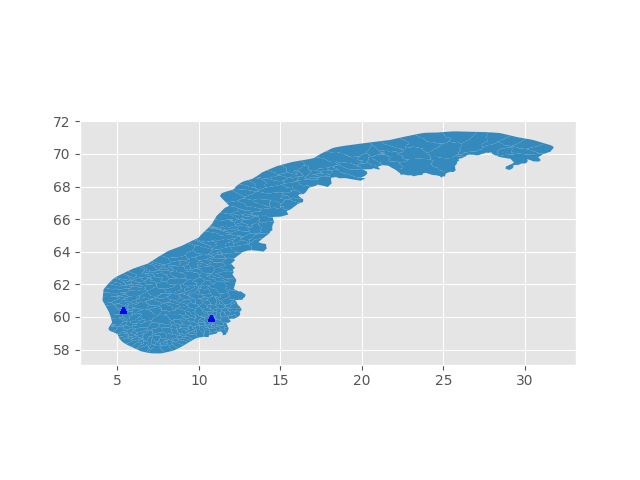
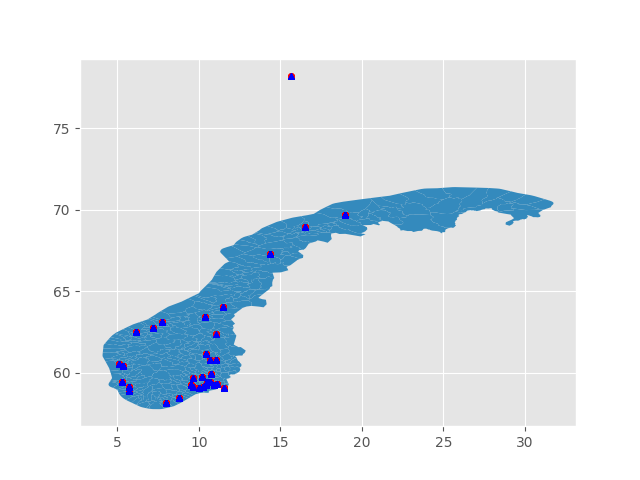
backup

diff --git a/oskar_norway_plot.py b/oskar_norway_plot.py
@@ -1,0 +1,112 @@
+import re
+import pandas as pd
+import numpy as np
+import geopandas as gpd
+import matplotlib.pyplot as plt
+from shapely.geometry import Polygon, LineString, Point
+
+gdf_nuts3 = gpd.read_file(
+    'data/NUTS_RG_01M_2021_3857_LEVL_3.shp.zip',
+    crs = "EPSG:4326"
+)
+
+
+
+# Filter out all countries except Norway
+gdf_NOnuts3 = gdf_nuts3[gdf_nuts3.CNTR_CODE.str.contains('NO')]
+
+# We manually filter out Svalbard and Jan Mayen as we are not interested in them
+gdf_NOnuts3 = gdf_NOnuts3.query('FID != "NO0B1" and FID != "NO0B2"')
+
+# Return to sequential index from 0 to 13
+gdf_NOnuts3 = gdf_NOnuts3.reset_index()
+
+# Set the coordinate reference system to EPSG:4326 - same as our twitter data.
+gdf_NOnuts3 = gdf_NOnuts3.to_crs("EPSG:4326")
+
+## import and process twitter data 
+
+# We load the Twitter data
+df_twitter = pd.read_csv(
+    'final_dataset.csv',parse_dates=['created_at']
+)
+
+# Transform it into a GeoDataFrame with point geometry based on longitude and latitude.
+gdf_twitter = gpd.GeoDataFrame(
+    df_twitter,
+    crs = "EPSG:4326",
+    geometry=gpd.points_from_xy(df_twitter.longitude, df_twitter.latitude)
+)
+print(gdf_twitter.head())
+
+
+#getting boolean label values
+delete_rows = []
+bool_label = np.zeros(len(df_twitter))
+
+for i, row in df_twitter.iterrows():
+    try:
+        search = re.search(r"\[\s*((?:-){0,1}\d.\d+(?:e-\d+)*)\s+((?:-){0,1}\d.\d+(?:e-\d+)*)\s*\]", row['labels']).groups()
+        labels = (float(search[0]), float(search[1]) )
+        if labels[0] < labels[1]:
+            bool_label[i] = 1
+
+    except:
+        print("delete row {}".format(i))
+        delete_rows.append(i) #rows with nan labels are saved for later deletion
+
+df_twitter.drop(df_twitter.index[delete_rows]) # delete rows with nan indexes
+
+#adding boolean label to dataframe
+df_twitter['label'] = bool_label 
+
+print(df_twitter.head())
+# Create a new list with one row for each city
+gdf_twitter_grouped = gdf_twitter[gdf_twitter.city != "Longyearbyen"]
+gdf_twitter_grouped = gdf_twitter.groupby('city').first()
+gdf_twitter_sentiment = gdf_twitter.groupby('label').first()
+
+# Add a new column 'twitter_frequency' with the number of times each city occur.
+# This amounts to the twitter frequency.
+gdf_twitter_grouped['twitter_frequency'] = gdf_twitter['city'].value_counts()
+gdf_twitter_grouped['label'] = gdf_twitter['label'].value_counts()
+
+gdf_twitter.info()
+
+# Only select the relevant columns
+gdf_twitter_grouped_sorted = gdf_twitter_grouped[["geometry","twitter_frequency"]]
+gdf_twitter_grouped_sorted = gdf_twitter_grouped_sorted.reset_index()
+
+print(gdf_twitter_grouped_sorted.head())
+
+## TESTING --------------------------------------------------
+
+
+
+
+# Spatial joins https://geopandas.org/docs/user_guide/mergingdata.html#spatial-joins
+# Basically, we add an attribute for each city related to the county the coordinate is located inside.
+gdf_twitter_with_county = gdf_twitter_grouped_sorted.sjoin(gdf_NOnuts3, how = "inner", predicate = 'intersects')
+# Summate the different cities within each county
+gdf_frequency_county = gdf_twitter_with_county.groupby('NUTS_NAME').sum()
+gdf_frequency_county.head(2)
+
+# Spatial joins https://geopandas.org/docs/user_guide/mergingdata.html#spatial-joins
+# Basically, we add an attribute for each city related to the county the coordinate is located inside.
+gdf_twitter_with_county = gdf_twitter_grouped_sorted.sjoin(gdf_NOnuts3, how = "inner", predicate = 'intersects')
+# Summate the different cities within each county
+gdf_frequency_county = gdf_twitter_with_county.groupby('NUTS_NAME').sum()
+gdf_frequency_county.head(2)
+
+
+
+
+
+
+
+
+
+
+
+
+

diff --git a/plot_sentiment.py b/plot_sentiment.py
@@ -33,20 +33,16 @@ for i, row in data.iterrows():
                     #note; logits are [0, 1], i think|
         label_diff[i] = np.abs(labels[0] - labels[1]) 
         if labels[0] < labels[1]:
-            bool_label[i] = 1 
+            bool_label[i] = int(1) 
         
     except:
         print("delete row {}".format(i))
         delete_rows.append(i) #rows with nan labels are saved for later deletion
 
 data.drop(data.index[delete_rows]) # delete rows with nan indexes
+data['labels'] = bool_label
 
 def plot_uncertainty_diff():
-    n = 30
-    print(label_diff)
-    bins = np.linspace(np.min(label_diff), np.max(label_diff), n)
-    #bins = math.ceil((np.max(labels) - np.min(labels))/w) 
-    hist = np.histogram(label_diff)#, bins = bins)
     plt.hist(label_diff)
     plt.legend()
     plt.title('difference between positive and negative label')
@@ -71,12 +67,13 @@ def norway_plot():
 
 
 
-    #gdf[bool_label['labels']].plot(ax = ax, markersize = 20, color = 'red', marker = 'o', label = 'neg')
-    gdf[bool_label['labels']].plot(ax = ax, markersize = 20, color = 'blue', marker = '^', label = 'pos') 
+    gdf[gdf['labels'] == 0].plot(ax = ax, markersize = 20, color = 'red', marker = 'o', label = 'neg')
+    #print(gdf.iloc[bool_label])
+    gdf[gdf['labels']==1].plot(ax = ax, markersize = 20, color = 'blue', marker = '^', label = 'pos') 
  
 
     plt.savefig('fig/geo_distribution.png')
 
 if __name__ == '__main__':
-    plot_uncertainty_diff()
-    #norway_plot()
+    #plot_uncertainty_diff()
+    norway_plot()
